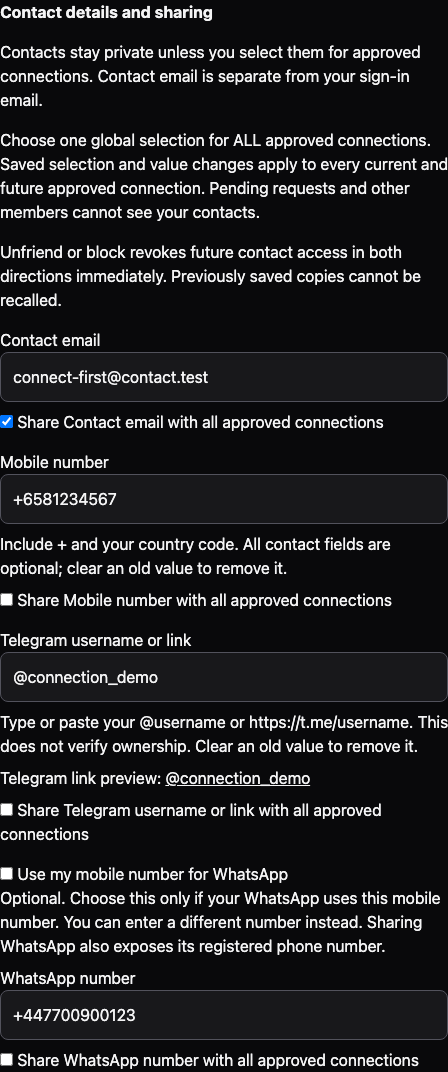
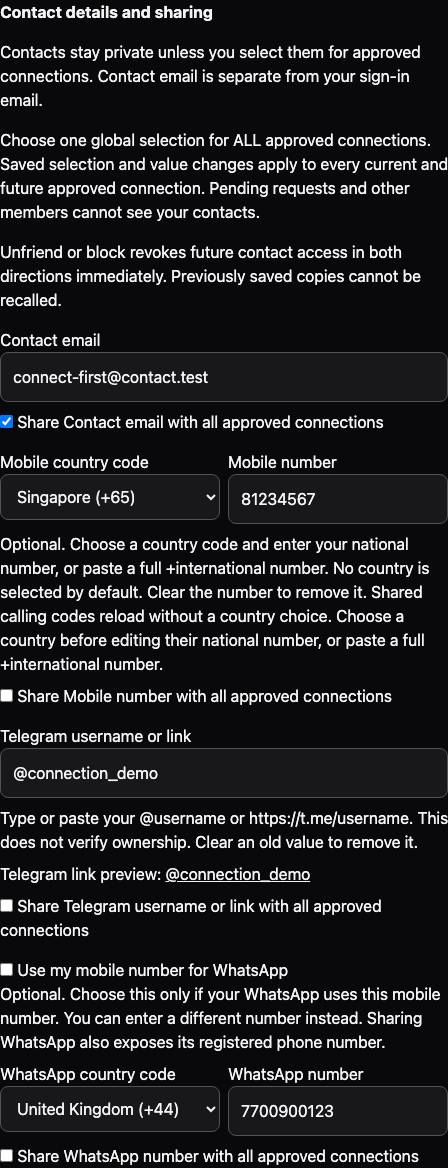
docs(connections): record verified country selector sender journey

Changed region(s): [[0.0, 0.0, 1.0, 1.0], [0.9688, 0.431, 1.0, 0.4618], [0.9688, 0.3386, 1.0, 0.3694]]

diff --git a/docs/evidence/connections-pr4.md b/docs/evidence/connections-pr4.md
@@ -2,7 +2,7 @@
 
 These are current original Playwright Chromium recordings against real synthetic Firebase Auth/Firestore emulators (`demo-hack-live`) and the actual identity server. The two people, emails and phone values are synthetic. No connection UI, Auth, Firestore, API or security rules are mocked. This demonstrates desktop Chromium, not a physical device, production deployment or Google OAuth consent.
 
-- [Sender journey](https://github.com/user-attachments/assets/75164547-217f-4561-af40-6790a98a9f29) (37.96 seconds, 3,188,748 bytes): real email sign-in, member-profile request confirmation, request/acceptance indicator, approved contacts, mark acceptance read, REAL profile editor global selection change, unfriend with contacts gone, decline/cancel and block result after reload.
+- [Sender journey](https://github.com/user-attachments/assets/c042e2b8-6087-4c1a-8913-0e71883fa95b) (40.68 seconds, 3,530,857 bytes): real email sign-in, member-profile request confirmation, request/acceptance indicator, approved contacts, mark acceptance read, REAL profile editor global selection change, unfriend with contacts gone, decline/cancel and block result after reload.
 - [Recipient journey](https://github.com/user-attachments/assets/3999d25f-5953-4e40-9f2e-19f1106294bd) (35.88 seconds, 1,655,287 bytes): independent signed-in account sees incoming request and selected-field explanations without contact values, accepts, sees approved email/Mobile/Telegram/WhatsApp safe actions, watches Mobile/Telegram/WhatsApp disappear while contact email remains live after the sender saves their global selection, then loses contact access after unfriend and blocks a new request.
 - Current contact-refinement screenshots (superseding the original capture images): [request confirmation](pr4-connections-request.png), [acceptance explanation](pr4-connections-acceptance.png), [approved contact actions](pr4-connections-approved.png), [global editor selection](pr4-connections-global-selection.png), [live changed selection](pr4-connections-updated.png), [unfriended](pr4-connections-unfriended.png), [declined](pr4-connections-declined.png), [cancelled](pr4-connections-cancelled.png), [blocked](pr4-connections-blocked.png).
 - [Capture manifest](pr4-connections-contract.json) explicitly records the real-emulator mode, synthetic accounts, real editor selection step and limitations.
@@ -36,7 +36,7 @@ Browser coverage retains parent registration/profile/invitation regressions and 
 Recording collectors continue to write local videos to `docs/evidence/`; `docs/evidence/*.webm` is ignored. Upload those files directly into the PR description, verify the resulting GitHub attachments, and update these links. Do not commit or force-add videos. Screenshots and capture contracts remain tracked; original recording revisions, filenames and timings are historical capture provenance.
 
 
-## Current contact refinement checkpoint
+## Historical contact refinement checkpoint
 
 Full composed immutable `dc907e980b37731725252a94be5829b14c2ce1ce` passed **31 pure + 78 real API/rules + 20 Chromium tests (129/129)**, including 18 real journeys and the two unchanged deterministic cross-account component regressions. All 15 PR3–7 typecheck/build/pure checks pass. This is cumulative runtime evidence, not a claim that all descendant tests ran on isolated PR4. Contact implementation matches PR4 source `f7ae116d914c045acdd214d8ddd0037134ad50bb`; surrounding later-layer profile sections can appear in the cumulative recordings.
 
@@ -45,3 +45,12 @@ The two new original paced recordings are published as native GitHub players abo
 The updated journey shows the full selected-field explanation before acceptance, all four approved safe contact actions, then a real editor change removing Mobile/Telegram/WhatsApp sharing and retaining Contact email, followed by unfriend/decline/cancel/block. It validates actual mailto/tel/t.me/wa.me hrefs without external navigation or sending messages. New real browser coverage also seeds a mixed retired-Signal projection, observes read denial and immediate value clearing, dry-runs/applies synthetic cleanup, reloads to recover allowed contact access, renders invalid legacy routes as plaintext correction and removes actions on revocation. Real API/rules tests cover deletion/recreation and concurrent new fields/Save/accept; the synthetic CLI itself is exercised in default dry-run, explicit apply and repeat-apply modes. No production migration was performed or enabled.
 
 [Current capture manifest](pr4-contact-refinement-contract.json) preserves immutable source, hashes, dimensions, decode counts, scope and limitations. Existing baseline capture manifest/revisions remain historical provenance. Services were stopped after the passed suite and ports 3000/8080/9099/9150 verified free.
+
+
+## Current country-selector checkpoint
+
+Full immutable cumulative source `ea1f80648d3b4aa18e19133f5c33d165d072d1c8` passed **137/137** (34 pure, 78 real API/rules, 25 Chromium tests), including the unchanged cross-account connection regressions, country/trunk-prefix corrections, two pending-photo owner/lifetime fences and fresh-profile private-editor activation. The final profile parent `8ff981026f64c6248f6cb9ec94e225b9b7246c24` adds the identical actual-save-response test synchronization; subsequent composition changes only documentation. A stale prior success message is never accepted as proof that a new save committed. Canonical E.164 source/projection assertions remain unchanged.
+
[1 lines of base64/hex data omitted]
+
+Country selectors remain UI-only; phone/WhatsApp persist canonical strings and owner-private linking stays independent of sharing. No country field, API/rule/schema change, global permission, backfill or production operation was added. All previous photo/skills, Signal retirement, safe route and viewer/action-fence contracts remain protected. Full runtime services were stopped and ports 3000/8080/9099/9150 verified free.

diff --git a/docs/connections-pr4.md b/docs/connections-pr4.md
@@ -103,6 +103,13 @@ Accepted contacts expose safe actions for recognized email, international teleph
 Example synthetic-only invocation (after starting isolated emulators): `GCLOUD_PROJECT=demo-hack-live FIRESTORE_EMULATOR_HOST=127.0.0.1:8080 npm run migrate:retired-contacts`; append `-- --apply` only for synthetic apply. Existing runtime/emulator ownership must be respected.
 
 
-Current contact-refinement validation: immutable cumulative tip `dc907e980b37731725252a94be5829b14c2ce1ce` passed **129/129** (31 pure, 78 API/rules, 20 browser; 18 real journeys plus two unchanged cross-account component regressions). PR3–7 each passed typecheck/build/pure checks; PR4 has 22 pure checks. This supersedes earlier baseline totals above and does not imply isolated descendant runtime tests ran on every layer. Details and current recording byte proofs are in the [evidence document](evidence/connections-pr4.md).
+Historical contact-refinement validation: immutable cumulative tip `dc907e980b37731725252a94be5829b14c2ce1ce` passed **129/129** (31 pure, 78 API/rules, 20 browser; 18 real journeys plus two unchanged cross-account component regressions). PR3–7 each passed typecheck/build/pure checks; PR4 has 22 pure checks. This supersedes earlier baseline totals above and does not imply isolated descendant runtime tests ran on every layer. Details and current recording byte proofs are in the [evidence document](evidence/connections-pr4.md).
 
 For rollout, restrictive allowed-key rules protect old clients before recovery. An owner can recover a stale mixed projection by correcting/clearing any invalid legacy contact routes and saving: canonical Save drops Signal and replaces the projection atomically without changing the accepted relation or global consent. The supplied migration is a synthetic emulator exercise only; no bulk production cleanup is claimed. Any production backfill requires a separate reviewed operational tool and explicit authorization. Unknown future keys remain denied for separate review.
+
+
+## Country selector integration
+
+Inherited Mobile and WhatsApp controls now separate country choice from national digits while saving the same canonical E.164 contact strings and owner-private `whatsappUsesMobile` flag. Country choice is UI-only, including shared-calling-code correction; no country schema fields, API/rules or backfill are added. The owner/editor-lifetime save fence and committed-profile activation guard are preserved alongside the existing connection viewer/action fences.
+
+Current cumulative source `ea1f80648d3b4aa18e19133f5c33d165d072d1c8` passed **137/137** (34 pure, 78 API/rules, 25 browser). This is cumulative evidence rather than a claim that descendant suites ran in isolation at this layer. Only the sender profile-editor recording was refreshed; the recipient accepted-contact recording remains accurate and unchanged. Exact recording bytes/provenance are in the [evidence document](evidence/connections-pr4.md) and [capture contract](evidence/pr4-contact-refinement-contract.json).
